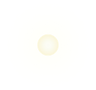
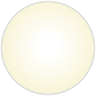
Stars plug-in (Moon and Sun) rendering improvements
* Sun  pixmap updated
* The size of the sun is rendered the same way as we render the moon right now including diameter calculation and magnifying mode
* The backdrop-glow is rendered separately before rendering the sun
* The moon is rendered after the sun has been rendered (so that it can eclipse the sun during eclipses)
* Labels added
* The functionality provided is synced with the settings dialog.

REVIEW: 114728

diff --git a/src/plugins/render/stars/StarsPlugin.cpp b/src/plugins/render/stars/StarsPlugin.cpp
@@ -1363,18 +1363,57 @@ bool StarsPlugin::render( GeoPainter *painter, ViewportParams *viewport,
             }
         }
 
+        SolarSystem sys;
+        QDateTime dateTime = marbleModel()->clock()->dateTime();
+        sys.setCurrentMJD(
+                    dateTime.date().year(), dateTime.date().month(), dateTime.date().day(),
+                    dateTime.time().hour(), dateTime.time().minute(),
+                    (double)dateTime.time().second());
         char *centralBody = QString("Earth").toLatin1().data();
+        sys.setCentralBody( centralBody );
+
+        if ( m_renderSun ) {
+            // sun
+            SolarSystem sys;
+            sys.setCentralBody( centralBody );
+            double ra = 0.0;
+            double decl = 0.0;
+            sys.getSun( ra, decl );
+            ra = 15.0 * sys.DmsDegF( ra );
+            decl = sys.DmsDegF( decl );
+
+            Quaternion qpos = Quaternion::fromSpherical( ra * DEG2RAD, decl * DEG2RAD );
+            qpos.rotateAroundAxis( skyAxisMatrix );
+
+            if ( qpos.v[Q_Z] <= 0 ) {
+                QPixmap glow(MarbleDirs::path( "svg/glow.png" ));
+                qreal deltaX  = glow.width()  / 2.;
+                qreal deltaY  = glow.height() / 2.;
+                int x = (int)(viewport->width()  / 2 + skyRadius * qpos.v[Q_X]);
+                int y = (int)(viewport->height() / 2 - skyRadius * qpos.v[Q_Y]);
+                painter->drawPixmap( x - deltaX, y - deltaY, glow );
+
+                qreal diameter = 0.0, mag = 0.0;
+                sys.getPhysSun(diameter, mag);
+                const int coefficient = m_zoomSunMoon ? m_zoomCoefficient : 1;
+                const qreal size = skyRadius * qSin(diameter) * coefficient;
+                const qreal factor = size/m_pixmapSun.width();
+                QPixmap sun = m_pixmapSun.transformed(QTransform().scale(factor, factor),
+                                                      Qt::SmoothTransformation);
+                deltaX  = sun.width()  / 2.;
+                deltaY  = sun.height() / 2.;
+                x = (int)(viewport->width()  / 2 + skyRadius * qpos.v[Q_X]);
+                y = (int)(viewport->height() / 2 - skyRadius * qpos.v[Q_Y]);
+                painter->drawPixmap( x - deltaX, y - deltaY, sun );
+
+                // It's labels' time!
+                if (m_viewSolarSystemLabel)
+                    painter->drawText(x+deltaX*1.5, y+deltaY*1.5, tr("Sun"));
+            }
+        }
 
         if ( m_renderMoon && marbleModel()->planetName() == "Earth" ) {
             // moon
-            SolarSystem sys;
-            QDateTime dateTime = marbleModel()->clock()->dateTime();
-            sys.setCurrentMJD(
-                        dateTime.date().year(), dateTime.date().month(), dateTime.date().day(),
-                        dateTime.time().hour(), dateTime.time().minute(),
-                        (double)dateTime.time().second());
-
-            sys.setCentralBody( centralBody );
             double ra=0.0;
             double decl=0.0;
             sys.getMoon(ra, decl);
@@ -1442,28 +1481,10 @@ bool StarsPlugin::render( GeoPainter *painter, ViewportParams *viewport,
                 const int y = (int)(viewport->height() / 2 - skyRadius * qpos.v[Q_Y]);
 
                 painter->drawPixmap( x - deltaX, y - deltaY, moon );
-            }
-        }
 
-        if ( m_renderSun ) {
-            // sun
-            SolarSystem sys;
-            sys.setCentralBody( centralBody );
-            double ra = 0.0;
-            double decl = 0.0;
-            sys.getSun( ra, decl );
-            ra = 15.0 * sys.DmsDegF( ra );
-            decl = sys.DmsDegF( decl );
-
-            Quaternion qpos = Quaternion::fromSpherical( ra * DEG2RAD, decl * DEG2RAD );
-            qpos.rotateAroundAxis( skyAxisMatrix );
-
-            if ( qpos.v[Q_Z] <= 0 ) {
-                qreal deltaX  = m_pixmapSun.width()  / 2.;
-                qreal deltaY  = m_pixmapSun.height() / 2.;
-                const int x = (int)(viewport->width()  / 2 + skyRadius * qpos.v[Q_X]);
-                const int y = (int)(viewport->height() / 2 - skyRadius * qpos.v[Q_Y]);
-                painter->drawPixmap( x - deltaX, y - deltaY, m_pixmapSun );
+                // It's labels' time!
+                if (m_viewSolarSystemLabel)
+                    painter->drawText(x+deltaX, y+deltaY, tr("Moon"));
             }
         }
     }
@@ -1602,7 +1623,6 @@ bool StarsPlugin::eventFilter( QObject *object, QEvent *e )
             QAction *dsoLabelAction = menu.addAction( tr("Show Deep Sky Object Labels"), this, SLOT(toggleDsoLabels()) );
             dsoLabelAction->setCheckable( true );
             dsoLabelAction->setChecked( m_renderDsoLabels );
-
 
             QAction *sunAction = menu.addAction( tr("Show &Sun"), this, SLOT(toggleSun()) );
             sunAction->setCheckable( true );
